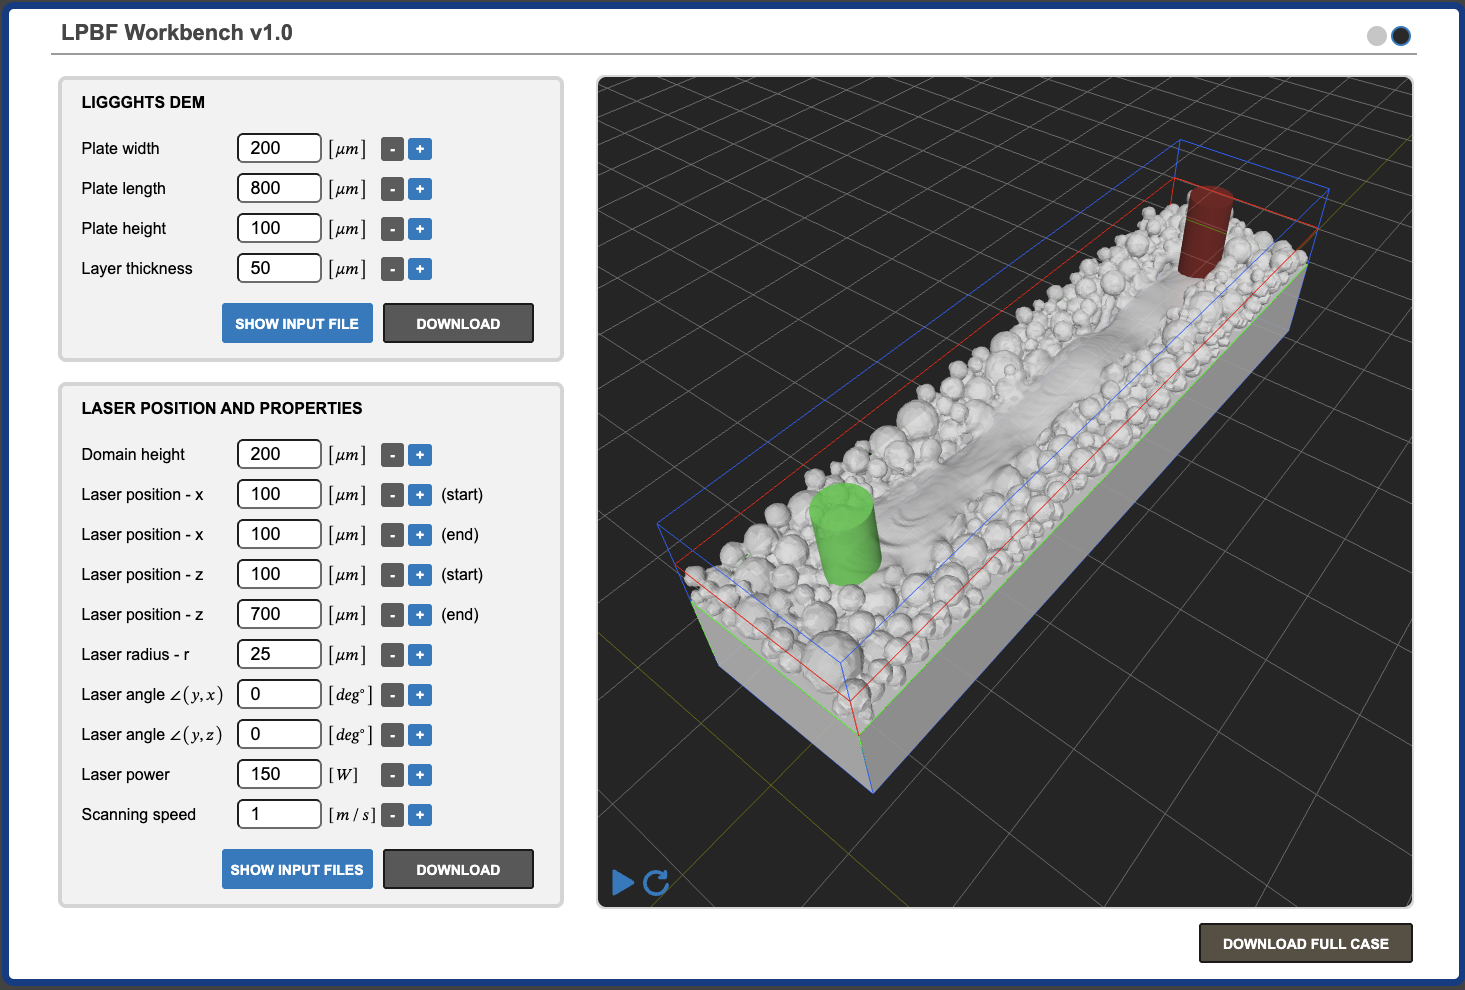
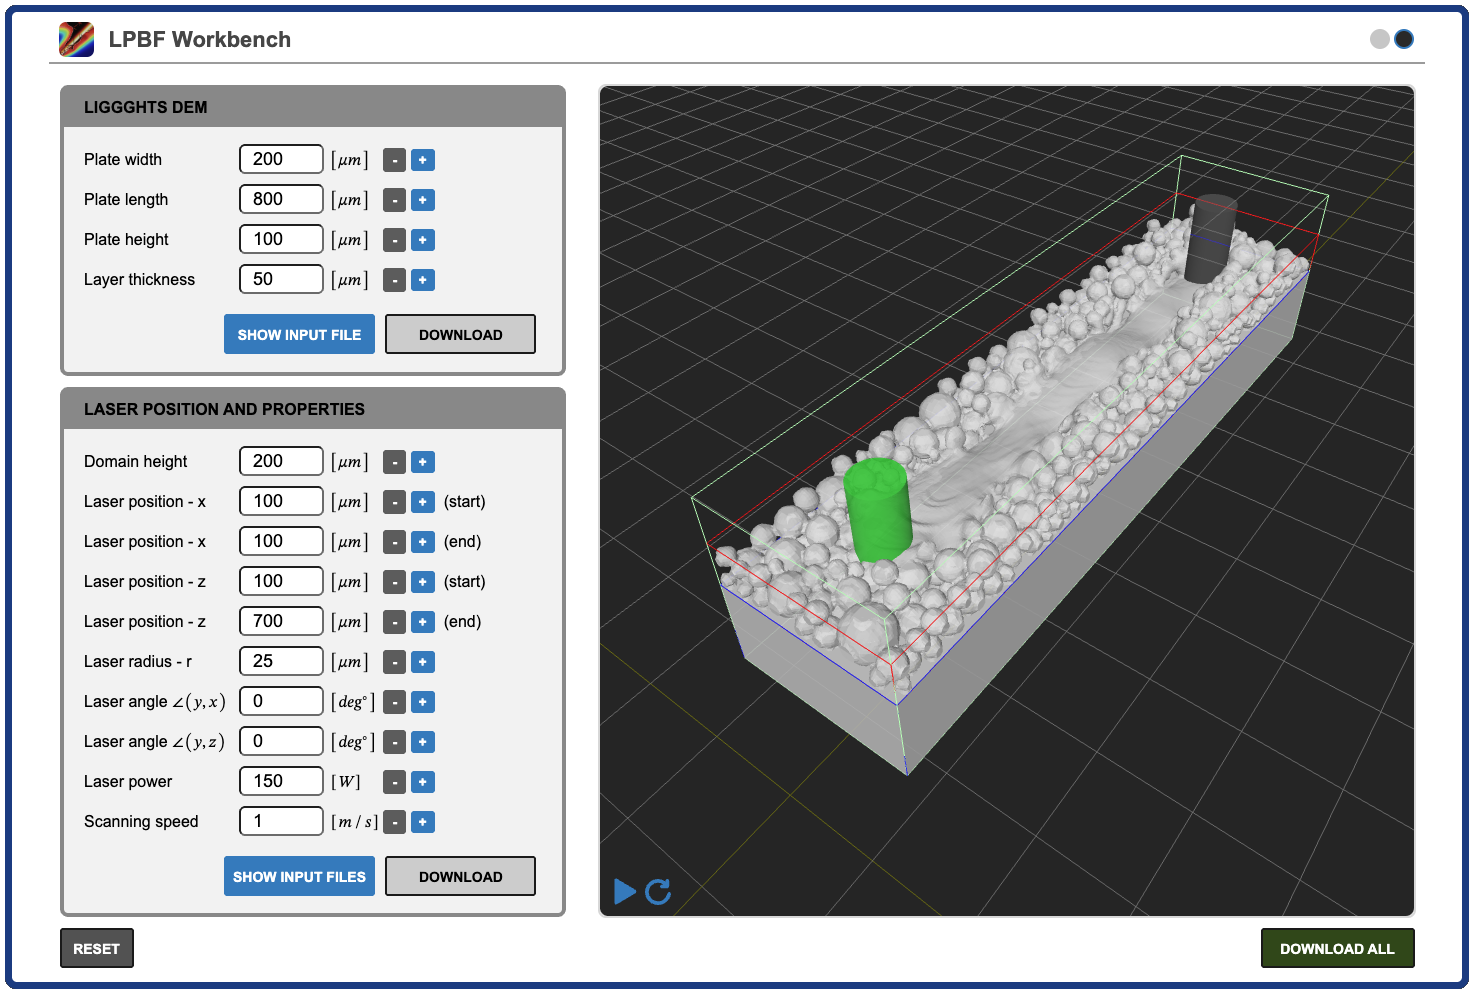
workbench image update

diff --git a/utilities/laserbeamFoamLPBFWorkbenchGUI/code/JS/main.js b/utilities/laserbeamFoamLPBFWorkbenchGUI/code/JS/main.js
@@ -25,7 +25,6 @@ axesHelper.position.set(-0.5, 0.5, 1);
 
 var shift = [-0.1, -0.2, -0.2]; // Shift to align with the axes helper position
 
-
 const canvas = document.createElement("canvas");
 canvas.width = 128;
 canvas.height = 64;
@@ -114,7 +113,6 @@ var domain_height = parseFloat($("#domain_height").val()) || 1;
 var domain_height_input = $("#domain_height");
 var laser_pos_x_input = $("#laser_pos_x");
 var laser_pos_x_input_end = $("#laser_pos_x_end");
-
 var laser_pos_z_input = $("#laser_pos_z");
 var laser_pos_z_input_end = $("#laser_pos_z_end");
 
@@ -129,7 +127,7 @@ const geometry = new THREE.BoxGeometry(width, height, length);
 // 5. Create edges geometry and material
 var edges = new THREE.EdgesGeometry(geometry);
 var edgeMaterial = new THREE.LineBasicMaterial({
-  color: 0x00ff00,
+  color: 0x000ff, // Blue color for edges
   linewidth: 2,
 });
 var plateEdgeLines = new THREE.LineSegments(edges, edgeMaterial);
@@ -171,7 +169,7 @@ const domain_geometry = new THREE.BoxGeometry(width, height_domain, length);
 // 5. Create edges geometry and material
 const domain_edges = new THREE.EdgesGeometry(domain_geometry);
 const domain_edge_material = new THREE.LineBasicMaterial({
-  color: 0x3366ff,
+  color: 0xbbffbb,
   linewidth: 2,
 });
 
@@ -197,13 +195,13 @@ var cylinderGeometry = new THREE.CylinderGeometry(
 );
 // Create a cylinder Material
 const cylinderMaterial = new THREE.MeshStandardMaterial({
-  color: 0x55ff55,
+  color: 0x22ff22,
   opacity: 0.8,
   transparent: true,
 });
 
 const cylinderMaterial_end = new THREE.MeshStandardMaterial({
-  color: 0xff2222,
+  color: 0x999999,
   opacity: 0.5,
   transparent: true,
 });

diff --git a/utilities/laserbeamFoamLPBFWorkbenchGUI/code/CSS/main.css b/utilities/laserbeamFoamLPBFWorkbenchGUI/code/CSS/main.css
@@ -37,7 +37,7 @@
     #loading{
       position: absolute;
       top: 50%;
-      left: 46%;
+      left: 45%;
       font-size: 25px;
       color: #686868;
     }
@@ -617,12 +617,12 @@ background-color: #5c5c5c;
       display: flex;
       align-items: center;
       justify-content: center;
-      margin-top: 20px;
+      margin-top: 45px;
       height: 40px;
       line-height: 40px;
       font-size: 18px;
       /* border: 1px solid #959595; */
-      margin-bottom: 20px;
+      margin-bottom: 45px;
     }
 
 